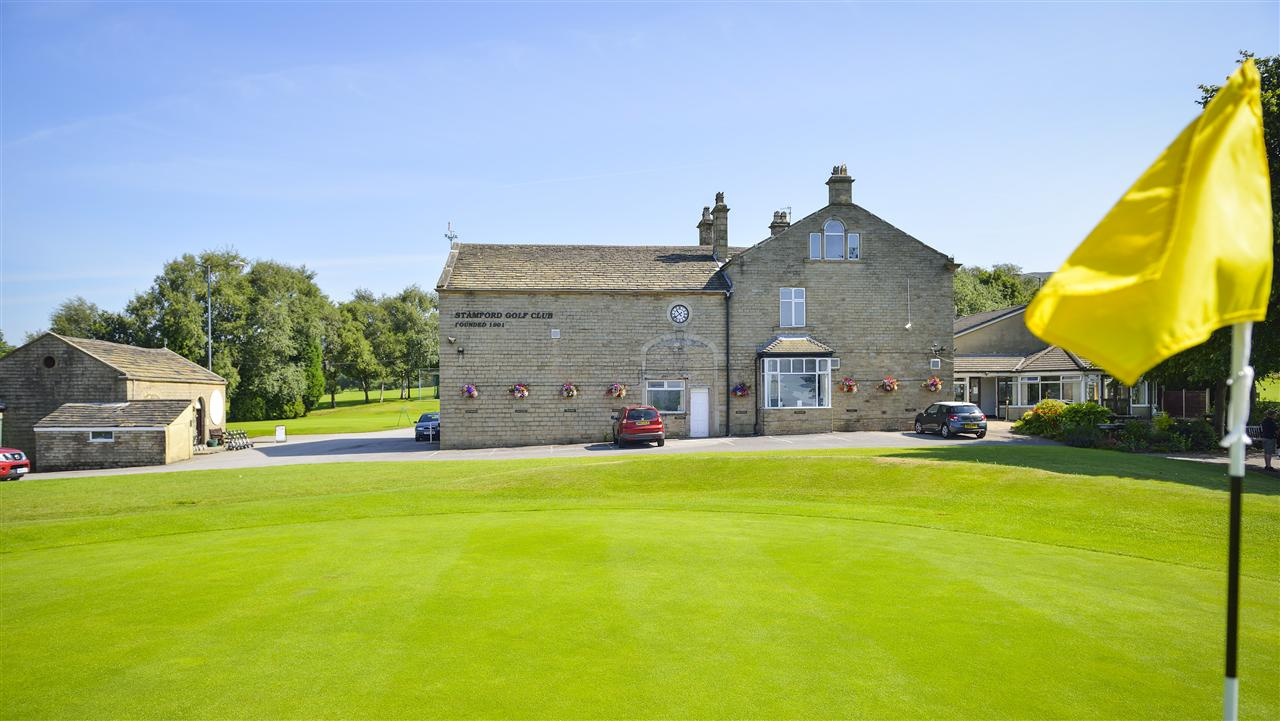
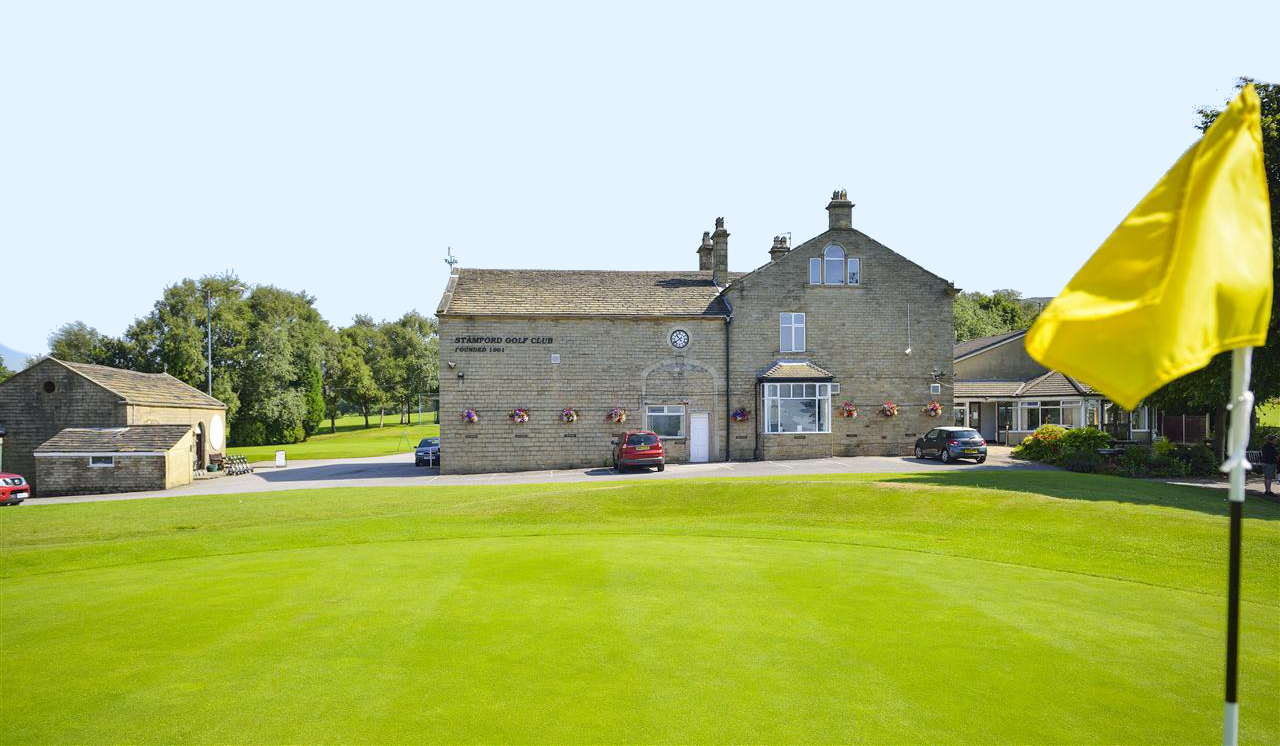
updated footer image

diff --git a/src/app/layout/MiniHeader.tsx b/src/app/layout/MiniHeader.tsx
@@ -47,8 +47,8 @@ export default function MiniHeader() {
             }
             
             <Box sx={{display: 'flex', width: '30%'}}>
-              <ListItem sx={{color:'orange', fontSize:'1.5rem'}} component={NavLink} to={{pathname: `https://stamford.hub.clubv1.com/visitors/TeeSheet?date=${year}-${month+1}-${day}`}} target="_blank">Visitor booking</ListItem>
-              <ListItem onClick={setStatus} sx={{color:'orange', cursor:'pointer', fontSize:'1.5rem'}}><span style={{
+              <ListItem sx={{color:'orange', fontSize:mobile? '1rem' : '1.5rem'}} component={NavLink} to={{pathname: `https://stamford.hub.clubv1.com/visitors/TeeSheet?date=${year}-${month+1}-${day}`}} target="_blank">Visitor booking</ListItem>
+              <ListItem onClick={setStatus} sx={{color:'orange', cursor:'pointer', fontSize:mobile ? '1rem' : '1.5rem'}}><span style={{
                 top:'1px', marginLeft: '6px', marginRight: '5px', display:'inline-block', backgroundColor: '#00ff0c',
                 boxShadow: '0 0 1px 2px #00ff0c', position:'relative', width:'10px', height: '10px', borderRadius:'50%'
               }}></span>Course status</ListItem>

diff --git a/src/app/layout/Copyright.tsx b/src/app/layout/Copyright.tsx
@@ -27,7 +27,7 @@ export default function Footer() {
     }, [])
 
     const imgStyle = {
-        background: `url(/img/clubhouse.jpeg) no-repeat`,
+        background: `url(/img/clubhouseLong1.webp) no-repeat`,
         backgroundSize: '100% 100%',
         maxHeight: 'auto'
     }
@@ -40,7 +40,8 @@ return (
                 width:'100%', 
                 objectFit: 'cover', 
                 display:'flex',
-                justifyContent:'center'}}
+                justifyContent:'center',
+                marginTop: '-15px'}}
             >
             
             <Typography 

diff --git a/src/app/layout/Footer.tsx b/src/app/layout/Footer.tsx
@@ -5,7 +5,7 @@ import { NavLink } from 'react-router-dom';
 export default function Footer() {
 
 return (
-    <Box sx={{ width:"100%", mt: "15px", backgroundColor: 'lightgrey'}}>
+    <Box sx={{ width:"100%", mt: "15px", backgroundColor: '#E4F3FD'}}>
         <Grid container spacing={2} sx={{padding:'15px'}}>
             <Grid item xs={12} sm={3}>
                 <Typography variant='h6'>Golf</Typography>
